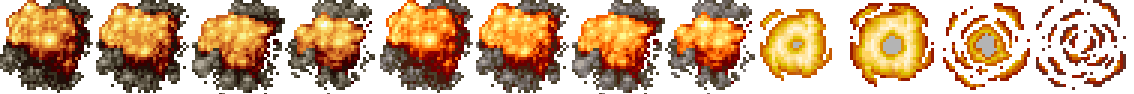
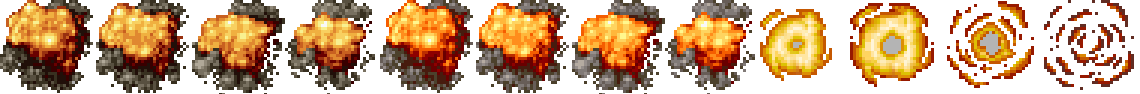
explosion sprite fixed

diff --git a/js/nyaan-cat.js b/js/nyaan-cat.js
@@ -10,7 +10,7 @@ PhaserGame = {
     this.load.spritesheet('nyantail', 'assets/cat/tail.png', 38, 28);
     this.load.spritesheet('magusEnemy', 'assets/bogeys/mages.png', 19, 18);
     this.load.spritesheet('bombEnemy', 'assets/bogeys/bombs.png', 18, 18);
-    this.load.spritesheet('explosion', 'assets/props/explosion.png', 95, 94)
+    this.load.spritesheet('explosion', 'assets/props/explosion.png', 94, 94)
   },
 
   ////////////////////CREATE////////////////////////
